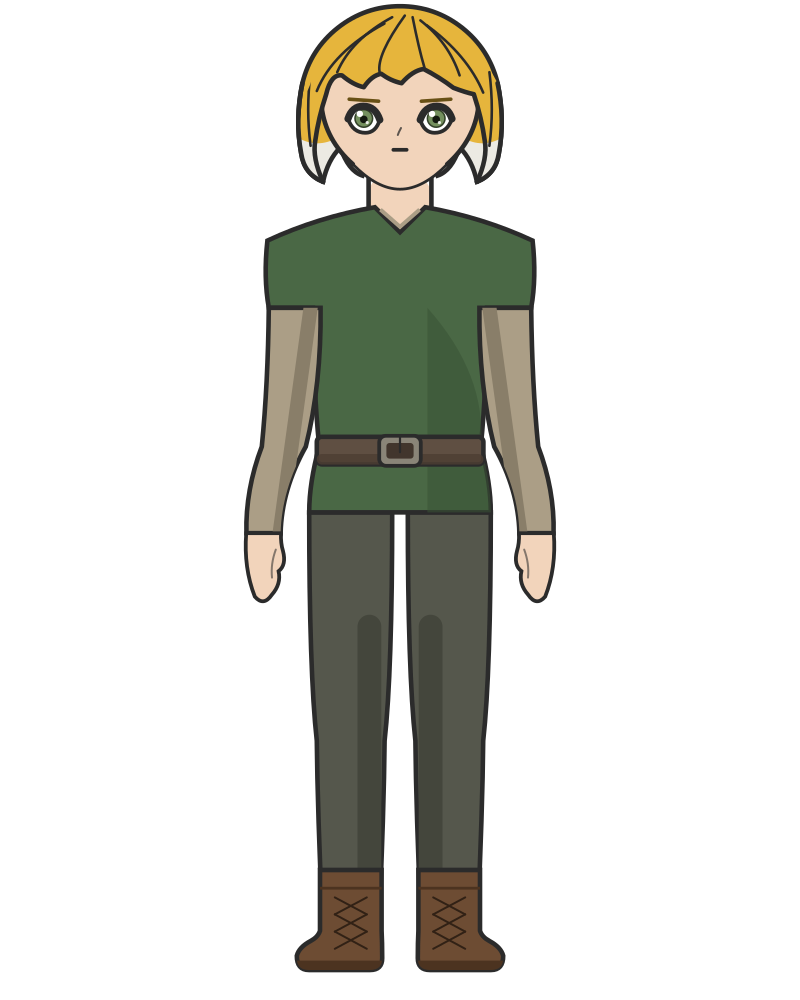
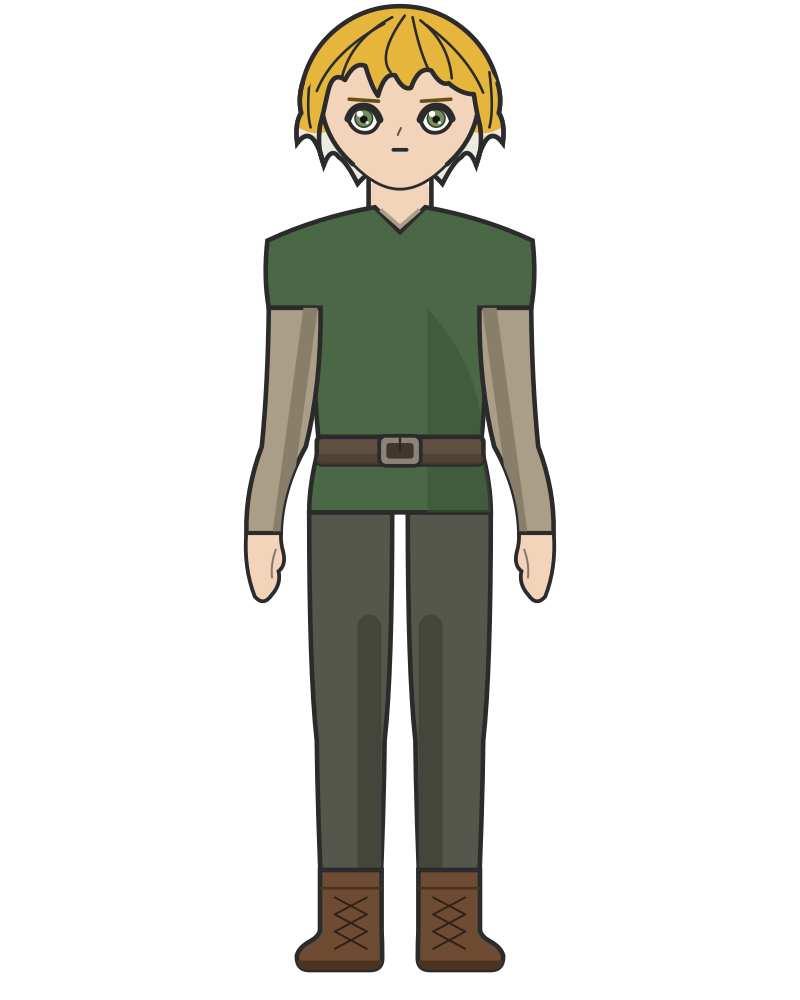
iterate on hair

Changed region(s): [[0.4062, 0.031, 0.5938, 0.093], [0.5312, 0.093, 0.6562, 0.186], [0.3438, 0.093, 0.4688, 0.186]]

diff --git a/src/character.py b/src/character.py
@@ -146,12 +146,12 @@ def _curve(cx: float, cy: float, r: float, start: Point, segments: list[Segment]
     return " ".join(d)
 
 
-# No hair shape may reach above -1.36 head radii from the head centre. That is
-# the headroom `build_skeleton`'s `hair_margin` leaves above the skull, and
-# nothing derives the bound from the shapes here, so a taller crown silently
-# comes out sliced flat against the canvas edge, which is how both chibis
-# shipped before it was measured. The tallest crown below is the short cut's, at
-# exactly -_CROWN_R.
+# No hair ink may reach above -1.36 head radii from the head centre, and the
+# stroke's outer half counts as ink. That is the headroom `build_skeleton`'s
+# `hair_margin` leaves above the skull, and nothing derives the bound from the
+# shapes here, so a taller crown silently comes out sliced flat against the
+# canvas edge, which is how both chibis shipped before it was measured. The
+# tallest point below is the short cut's crown, painted edge about -1.30.
 #
 # Hair is described in two zones. Above the cheek line it is pinned to the
 # skull, so those points are literal head-radius units. Below it the shape is
@@ -387,34 +387,40 @@ def _short_mass_shape(tip: float) -> tuple[Point, list[Segment]]:
     which measures a long fall down from the cheek line and so cannot describe
     hair that ends above the chin at all.
 
-    The mass stands well off the skull, a shell 0.28 head radii thick over the
-    crown and flaring to 1.34 at the cheek, so the locks hang beside the face
-    rather than looking painted onto it. It used to follow the skull at 1.00 to
-    1.08, which made hair and head nearly the same shape and was half of why the
-    result read as a pot rather than as a haircut. The other half was the bottom
-    edge: the lock ends are points with notches between them now, where they used
-    to be a shallow wave that came out as a set of rounded paddles.
+    The silhouette is a crop, not a bob: the bulk ends around ear level,
+    hugging the skull at 1.26 past the cheek, and what reaches lower is only
+    ragged tips, a side spike flicking down and out, a second tip below it,
+    and a nape flick that shows beside the neck. It used to fall in two long
+    side locks framing the face to below the cheeks, which is a girl's bob in
+    miniature; every satoshi ref ends the bulk at the ear. The centre of the
+    rim tucks behind the skull, so only the outer tips are ever visible, and
+    more of the nape shows at taller builds as the jaw narrows off it.
 
-    The crown is one circular arc. Its points were placed by hand at first, which
-    scalloped it: peaks between the anchors and dips at them, a wobble that read
-    as a defect rather than as texture. The hair reads as locks through the
-    strands and the fringe, so the crown does not have to carry any of it and is
-    better off smooth.
+    The crown is one circular arc, kept deliberately clean. Hand-placed
+    points once scalloped it, and a later attempt at additive cowlick flicks
+    (bumps rising off the arc, tried 2026-08-06) read as wobble too and was
+    reverted on the owner's call; the tousle may be revisited, but any
+    version of it has to beat the plain circle by eye first. The hair reads
+    as locks through the strands, the fringe and the rim, so the crown does
+    not have to carry any of it.
     """
     left_temple, crown = _arc(_CROWN_R, -_CROWN_TO_TEMPLE, _CROWN_TO_TEMPLE, 4)
     return left_temple, [
         *crown,
-        ((1.34, 0.16), (1.26, tip - 0.20)),
-        ((1.22, tip + 0.06), (0.98, tip + 0.16)),
-        ((0.92, tip - 0.12), (0.76, tip - 0.28)),
-        ((0.66, tip + 0.02), (0.48, tip + 0.08)),
-        ((0.36, tip - 0.24), (0.16, tip - 0.32)),
-        ((0.00, tip - 0.14), (-0.16, tip - 0.32)),
-        ((-0.36, tip - 0.24), (-0.48, tip + 0.08)),
-        ((-0.66, tip + 0.02), (-0.76, tip - 0.28)),
-        ((-0.92, tip - 0.12), (-0.98, tip + 0.16)),
-        ((-1.22, tip + 0.06), (-1.26, tip - 0.20)),
-        ((-1.34, 0.16), left_temple),
+        ((1.30, -0.10), (1.26, 0.08)),
+        ((1.34, tip - 0.34), (1.31, tip - 0.08)),
+        ((1.16, tip - 0.28), (1.05, tip - 0.04)),
+        ((1.02, tip + 0.02), (0.97, tip + 0.20)),
+        ((0.88, tip - 0.04), (0.78, tip + 0.10)),
+        ((0.68, tip + 0.16), (0.54, tip + 0.44)),
+        ((0.30, tip + 0.16), (0.00, tip + 0.22)),
+        ((-0.30, tip + 0.16), (-0.54, tip + 0.44)),
+        ((-0.68, tip + 0.16), (-0.78, tip + 0.10)),
+        ((-0.88, tip - 0.04), (-0.97, tip + 0.20)),
+        ((-1.02, tip + 0.02), (-1.05, tip - 0.04)),
+        ((-1.16, tip - 0.28), (-1.31, tip - 0.08)),
+        ((-1.34, tip - 0.34), (-1.26, 0.08)),
+        ((-1.30, -0.10), left_temple),
     ]
 
 
@@ -424,30 +430,34 @@ def _short_fall_edge(tip: float) -> tuple[Point, list[Segment]]:
     is why it has to end on the same temple point the crown arc starts from."""
     _, crown = _arc(_CROWN_R, -_CROWN_TO_TEMPLE, _CROWN_TO_TEMPLE, 4)
     right_temple = crown[-1][1]
-    return (0.98, tip + 0.16), [
-        ((1.22, tip + 0.06), (1.26, tip - 0.20)),
-        ((1.34, 0.16), right_temple),
+    return (0.97, tip + 0.20), [
+        ((1.02, tip + 0.02), (1.05, tip - 0.04)),
+        ((1.16, tip - 0.28), (1.31, tip - 0.08)),
+        ((1.34, tip - 0.34), (1.26, 0.08)),
+        ((1.30, -0.10), right_temple),
     ]
 
 
 def _short_tip_edge(tip: float) -> tuple[Point, list[Segment]]:
-    """Where a short cut fades to its tip tone: across the bottom third of the
-    locks, measured up from the tips.
+    """Where the crop fades to its tip tone: a waved band around tip - 0.28,
+    putting roughly the bottom third of the visible cut in the pale tone,
+    the lower half of each sideburn, every rim tip, the whole nape, while
+    the fringe and crown stay in the base color.
 
-    Measuring from the tips is the whole point. The long style's boundary sits a
-    fixed fraction of the way down a fall that starts at the cheek line, and on
-    hair this short that puts the pale tone at the jaw, where it reads as a
-    collar rather than as hair going white at the ends.
+    Two thirds base to one third pale is the owner's ratio. A per-spike
+    boundary hugging each tip was tried first and lost the two-tone look
+    almost entirely; the earlier flat band sat higher still and read as a
+    collar. This is between the two.
     """
-    hi, lo = tip - 0.40, tip - 0.26
     floor = tip + 1.5
-    return (-1.90, hi), [
-        ((-1.58, lo), (-1.30, hi)),
-        ((-1.05, lo), (-0.80, hi)),
-        ((-0.42, lo), (0.00, hi)),
-        ((0.42, lo), (0.80, hi)),
-        ((1.05, lo), (1.30, hi)),
-        ((1.58, lo), (1.90, hi)),
+    return (-1.90, tip - 0.34), [
+        ((-1.58, tip - 0.18), (-1.30, tip - 0.28)),
+        ((-1.06, tip - 0.14), (-0.86, tip - 0.26)),
+        ((-0.55, tip - 0.14), (-0.30, tip - 0.24)),
+        ((0.00, tip - 0.12), (0.30, tip - 0.24)),
+        ((0.55, tip - 0.14), (0.86, tip - 0.26)),
+        ((1.06, tip - 0.14), (1.30, tip - 0.28)),
+        ((1.58, tip - 0.18), (1.90, tip - 0.34)),
         ((1.90, floor * 0.6), (1.90, floor)),
         ((0.00, floor), (-1.90, floor)),
     ]
@@ -484,41 +494,46 @@ def _short_hairline_shape(tip: float) -> tuple[Point, list[Segment], list[Segmen
     # finishes on, so the hairline never stops in mid-air wherever those move to.
     start: Point = back[-1][1]
     line: list[Segment] = [
-        ((-1.12, tip - 0.14), (-1.08, tip - 0.36)),
-        ((-1.04, 0.14), (-0.94, -0.16)),
-        ((-0.88, -0.42), (-0.74, -0.40)),
-        ((-0.60, -0.28), (-0.46, -0.25)),
-        ((-0.36, -0.40), (-0.24, -0.42)),
-        ((-0.12, -0.33), (0.02, -0.30)),
-        ((0.16, -0.46), (0.30, -0.48)),
-        ((0.50, -0.38), (0.68, -0.24)),
-        ((0.84, -0.18), (0.94, -0.16)),
-        ((1.04, 0.14), (1.08, tip - 0.36)),
-        ((1.12, tip - 0.14), (0.98, tip + 0.16)),
+        ((-1.06, tip - 0.02), (-1.02, tip - 0.30)),
+        ((-0.98, 0.10), (-0.92, -0.18)),
+        # The locks vary in width, depth and direction on purpose: a wide
+        # shallow one, a high notch showing a patch of forehead, a deep
+        # narrow tip reaching for the brow, a small crossing kink. The old
+        # row repeated one wedge and read as a pattern, and a fringe is the
+        # one place this style wants its irregularity.
+        ((-0.86, -0.46), (-0.70, -0.34)),
+        ((-0.58, -0.58), (-0.44, -0.52)),
+        ((-0.36, -0.24), (-0.28, -0.14)),
+        ((-0.20, -0.44), (-0.06, -0.40)),
+        ((0.04, -0.20), (0.14, -0.24)),
+        ((0.24, -0.52), (0.40, -0.46)),
+        ((0.52, -0.26), (0.62, -0.30)),
+        ((0.78, -0.16), (0.94, -0.16)),
+        ((0.98, 0.10), (1.02, tip - 0.30)),
+        ((1.06, tip - 0.02), (0.97, tip + 0.20)),
     ]
     return start, line, back
 
 
 def _short_strands(tip: float) -> list[tuple[Point, list[Segment]]]:
-    """Lines dividing the short cut into locks: out from the parting over the
-    crown, each dying at a notch between two lock tips, plus a pair down each side
-    lock so the hanging part is divided too.
+    """Lines dividing the crop into locks: out from the parting over the
+    crown, each dying near a notch of the fringe, plus one line down each
+    sideburn. The sideburns used to carry a second line each, but the crop's
+    side band is too narrow for two: they read as tram lines and were cut.
 
     Without these the crown is one unbroken field of hair colour, which is what
     made the cut read as an object rather than as hair: a render with the strands
     suppressed and everything else in place still looks like a pot.
     """
     return [
-        ((-0.10, -1.14), [((-0.62, -0.86), (-0.80, -0.44))]),
-        ((0.06, -1.16), [((-0.30, -0.66), (-0.26, -0.44))]),
-        ((0.16, -1.14), [((0.24, -0.74), (0.31, -0.50))]),
-        ((0.26, -1.10), [((0.62, -0.82), (0.76, -0.40))]),
+        ((-0.10, -1.14), [((-0.62, -0.86), (-0.74, -0.38))]),
+        ((0.06, -1.16), [((-0.30, -0.66), (-0.12, -0.44))]),
+        ((0.16, -1.14), [((0.24, -0.74), (0.36, -0.48))]),
+        ((0.26, -1.10), [((0.62, -0.82), (0.66, -0.36))]),
         ((0.34, -1.04), [((0.86, -0.66), (1.06, -0.18))]),
         ((-0.20, -1.06), [((-0.86, -0.70), (-1.06, -0.20))]),
-        ((1.14, -0.44), [((1.20, 0.04), (1.14, tip - 0.30))]),
-        ((-1.14, -0.44), [((-1.20, 0.04), (-1.14, tip - 0.30))]),
-        ((0.90, 0.10), [((0.96, tip - 0.50), (0.90, tip - 0.24))]),
-        ((-0.90, 0.10), [((-0.96, tip - 0.50), (-0.90, tip - 0.24))]),
+        ((1.14, -0.44), [((1.20, 0.04), (1.14, tip - 0.28))]),
+        ((-1.14, -0.44), [((-1.20, 0.04), (-1.14, tip - 0.28))]),
     ]
 
 
@@ -564,8 +579,10 @@ HAIRSTYLES: dict[str, Hairstyle] = {
         _short_fall_edge,
         _short_tip_edge,
         strands=_short_strands,
-        # Ear to chin: a crop at 0, locks brushing the jaw at 1.
-        tip_range=(0.42, 1.00),
+        # Where the side tips end: a tight crop pinned to the skull at 0, a
+        # shaggy ear-length cut at 1. The old (0.42, 1.00) range described the
+        # bob this used to be, with locks reaching for the jaw.
+        tip_range=(0.25, 0.70),
     ),
 }
 DEFAULT_HAIRSTYLE = "long_blunt"

diff --git a/src/skeleton.py b/src/skeleton.py
@@ -82,11 +82,14 @@ def build_skeleton(
     # head radius and every chibi came out with the top of its hair sliced flat
     # against the canvas edge.
     #
-    # This is the allowance a hairstyle's crown has to stay inside: no hair shape
-    # may reach above -(1 + hair_margin) head radii from the head centre, so with
-    # 0.36 here the ceiling is -1.36 and the tallest crown in character.py peaks
-    # at about -1.29. A new cut that goes higher needs this raised with it,
-    # because nothing computes the bound from the shapes.
+    # This is the allowance a hairstyle's crown has to stay inside: no hair
+    # ink, including the outer half of the stroke, may reach above
+    # -(1 + hair_margin) head radii from the head centre. With 0.36 here the
+    # ceiling is -1.36 and the tallest crown in character.py paints to about
+    # -1.30. A new cut that goes higher needs this raised with it, because
+    # nothing computes the bound from the shapes: the short cut's cowlick
+    # flicks (tried and reverted) bled at exactly this boundary and needed
+    # 0.44 for the day they existed.
     fig_h = canvas_h * (1.0 - bottom_margin) / (1.0 + hair_margin / (2.0 * heads))
     head_h = fig_h / heads
     head_r = head_h / 2

diff --git a/src/presets.py b/src/presets.py
@@ -76,10 +76,10 @@ SATOSHI = CharacterParams(
     hair_color=HAIR,
     hair_tip_color=HAIR_TIPS,
     hairstyle="short_layered",
-    # Within the short cut's own range, so this is locks reaching down toward the
-    # jaw rather than anything measured against the body. Shorter than this and
-    # the side locks stop at the cheekbone and read as sideburns; much longer and
-    # they pass the jaw and the cut starts reading as a bob.
+    # Within the crop's own range, so this is where the side tips flick, not
+    # anything measured against the body. 0.65 puts them past the ear with the
+    # nape showing beside the neck; shorter tightens to the skull, longer
+    # heads toward shaggy.
     hair_length=0.65,
     eye_color="#74905e",
     outfit=Outfit(

diff --git a/STATUS.md b/STATUS.md
@@ -11,8 +11,12 @@ hands, realistic polish, off-centre parting; tasks 35-43), the second
 for shape (high-part fringe with visible forehead, eyes lower and
 apart with brows on the lash line, bell hair silhouette, chibi arms
 clear of the tunic with canon-sized hands; tasks 44-47), plus a
-user-caught limb-width swap (chibi legs now wider than arms, task 48).
-Per-task snapshots are in `out/35` through `out/48`.
+user-caught limb-width swap (chibi legs now wider than arms, task 48),
+plus the Satoshi hair pass (bob to shaggy crop: ear-level bulk, spiked
+rim, roughened fringe, fade rebalanced to two-thirds blonde over
+one-third white; crown cowlick flicks were tried and reverted on the
+owner's call, the crown stays a clean arc for now; tasks 49-54).
+Per-task snapshots are in `out/35` through `out/54`.
 
 ## Where it stands
 
@@ -70,9 +74,9 @@ What is parametrized:
   giving the strands that divide the mass into locks. Two-tone with a
   waved fade boundary. `hair_length` spans whatever range the cut
   defines: the long one measures the body, chin to hip, so it survives a
-  change of build; the short one measures the head, ear to chin, because
-  the body-relative range cannot express hair ending above the chin at
-  all.
+  change of build; the short one measures the head, a tight crop at 0 to
+  a shaggy ear-length cut at 1, because the body-relative range cannot
+  express hair ending above the chin at all.
 - **Headroom.** `hair_margin` is the space above the skull, measured in
   head radii rather than as a fraction of the canvas, because that is
   what it measures. As a canvas fraction it was generous at a tall build
@@ -149,11 +153,12 @@ measurement gap.
   to the body looks fine, and narrowing `waist_half_w` is a skeleton change
   touching both characters and both builds. Not worth doing on the
   measurement alone.
-- **Hair silhouettes are still mirrored point data.** Both cuts now
-  part off-centre in the fringe, divide into locks through strands and
-  end in points, which carries the asymmetry the canon shows; by eye
-  that is enough, so silhouette-level asymmetry stays deliberately
-  unattempted. Worth revisiting only if a future cut needs it.
+- **Hair silhouettes are mirrored point data, and stay that way.**
+  Both cuts part off-centre in the fringe, divide into locks through
+  strands and end in points, which carries the asymmetry the canon
+  shows. Crown cowlick flicks (silhouette-level asymmetry) were tried
+  on the short cut and reverted: they read as wobble, not tousle. If
+  that is revisited, the bar is beating the plain circle by eye.
 - **The realistic leg length is settled: it matches the canon.** The old
   short-legged judgment was made against `ref/satoshi.png` and does not
   survive the canon: measured, the canon's leg split sits at 0.565 of
@@ -216,7 +221,7 @@ as related, so what carries his identity is hair and lower body.
 
 | Feature | State |
 | --- | --- |
-| Short layered cut, same blonde fading to white | done |
+| Short shaggy crop: bulk at the ear, spiked rim, nape showing | done |
 | Hair that reads as locks rather than as one mass | done |
 | Dark trousers instead of skirt and apron | done |
 | Trouser leg that fills out at the thigh then runs near straight | done |
@@ -228,7 +233,7 @@ as related, so what carries his identity is hair and lower body.
 | Boot toe and cross-laces | done |
 | Slimmer frame: broader shoulder over narrower hip | done, realistic only |
 | Faint cheek mark | not started, and the canon satoshi pair shows none, so decide first whether it survives |
-| Off-centre parting in the silhouette, not only in the fringe | settled: fringe and strands carry it, silhouette stays mirrored |
+| Off-centre parting in the silhouette, not only in the fringe | settled: fringe and strands carry it; crown flicks tried and reverted |
 
 The frame row is realistic-only on purpose. At 2.4 heads a shoulder to
 hip ratio is invisible, so a chibi Satoshi has to read as a boy on hair
